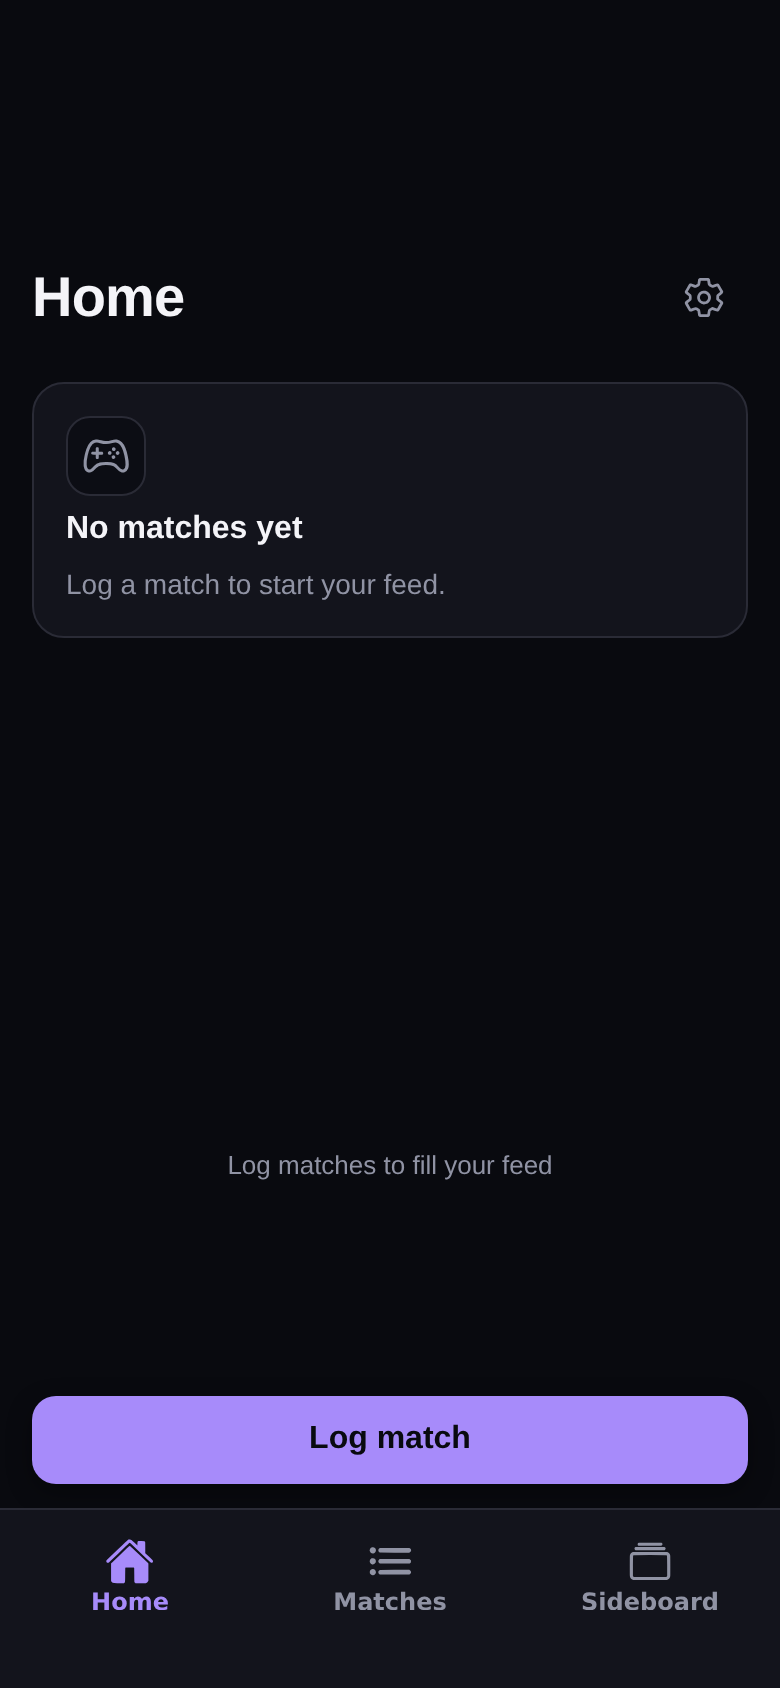
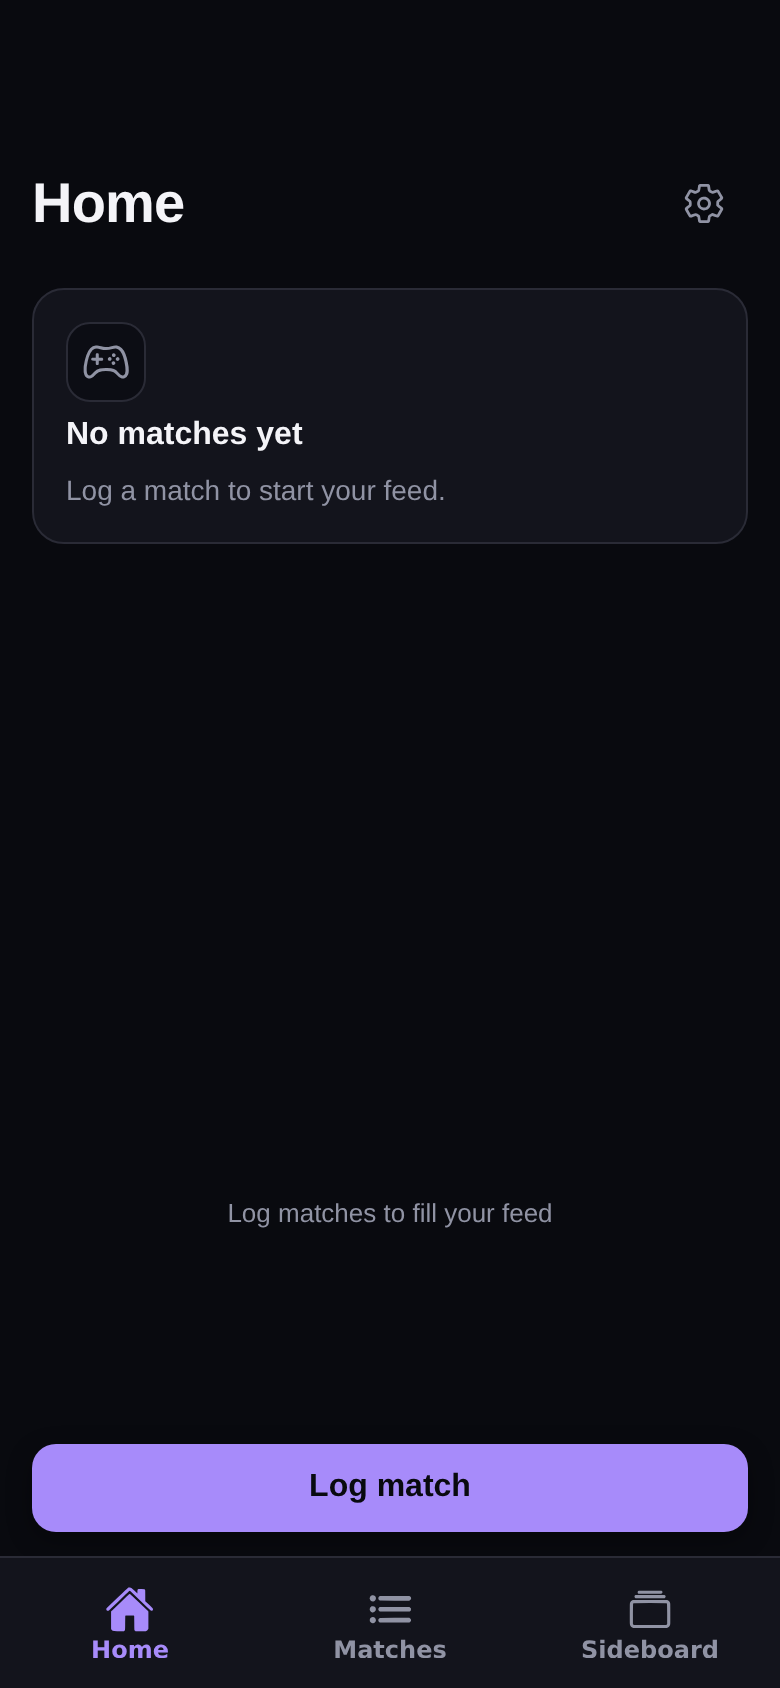
Fix Safari tab bar black gap: disable RN bottom inset double-count.
Pass safeAreaInsets={{ bottom: 0 }} so only our charcoal tabBarStyle pad
applies; use modest pad in browser Safari and full inset in standalone PWA.

diff --git a/app/(tabs)/_layout.tsx b/app/(tabs)/_layout.tsx
@@ -1,5 +1,5 @@
-import React from 'react';
-import { StyleSheet } from 'react-native';
+import React, { useEffect, useState } from 'react';
+import { Platform, StyleSheet } from 'react-native';
 import { Tabs } from 'expo-router';
 import { Ionicons } from '@expo/vector-icons';
 import { useSafeAreaInsets } from 'react-native-safe-area-context';
@@ -8,13 +8,63 @@ import { colors } from '../../src/theme/colors';
 /** Icon + label content row (excludes home-indicator inset). */
 const TAB_BAR_CONTENT_HEIGHT = 56;
 
+/** Modest pad in browser Safari (viewport already sits above chrome). */
+const BROWSER_BOTTOM_PAD = 10;
+
+/**
+ * Standalone PWA / native: fill home-indicator with the tab bar.
+ * In-browser Safari: do NOT layer the full home-indicator inset on top of
+ * the browser toolbar gap (that paints a thick body-colored strip).
+ *
+ * Defaults to false for SSR / first paint (safe for Safari-in-browser).
+ * Client effect upgrades to true in installed PWA / native.
+ */
+function readStandaloneLike(): boolean {
+  if (Platform.OS !== 'web') {
+    return true;
+  }
+  if (typeof window === 'undefined') {
+    return false;
+  }
+  const nav = window.navigator as Navigator & { standalone?: boolean };
+  if (nav.standalone === true) {
+    return true;
+  }
+  try {
+    return (
+      window.matchMedia('(display-mode: standalone)').matches ||
+      window.matchMedia('(display-mode: fullscreen)').matches ||
+      window.matchMedia('(display-mode: minimal-ui)').matches
+    );
+  } catch {
+    return false;
+  }
+}
+
 export default function TabsLayout() {
   const insets = useSafeAreaInsets();
-  // Always keep a little pad on devices with no inset (desktop web).
-  const bottomPad = Math.max(insets.bottom, 8);
+  // Native: always standalone-like. Web SSR/first paint: browser-safe false,
+  // then effect re-reads display-mode after mount (avoids useMemo SSR freeze).
+  const [standaloneLike, setStandaloneLike] = useState(
+    () => Platform.OS !== 'web'
+  );
+  useEffect(() => {
+    setStandaloneLike(readStandaloneLike());
+  }, []);
+
+  const insetBottom = insets.bottom;
+  let bottomPad: number;
+  if (standaloneLike) {
+    bottomPad = insetBottom > 8 ? insetBottom : 8;
+  } else {
+    bottomPad = BROWSER_BOTTOM_PAD;
+  }
 
   return (
     <Tabs
+      // Disable RN Bottom Tabs' default bottom safe-area — we apply ONE pad
+      // via tabBarStyle so the charcoal surface fills it (never body #090A0F).
+      safeAreaInsets={{ bottom: 0 }}
       screenOptions={{
         headerStyle: { backgroundColor: colors.background },
         headerTintColor: colors.text,
@@ -23,10 +73,11 @@ export default function TabsLayout() {
         // Default: no header actions on any tab (prevents Home settings leaking)
         headerRight: () => null,
         tabBarStyle: {
-          // Solid surface so home-indicator inset is filled (not black gap)
+          // Solid surface so intentional bottom pad is charcoal, never black body
           backgroundColor: colors.surface,
           borderTopColor: colors.hairline,
           borderTopWidth: StyleSheet.hairlineWidth,
+          // Single source of height: content row + our pad only (RN inset is 0)
           height: TAB_BAR_CONTENT_HEIGHT + bottomPad,
           paddingBottom: bottomPad,
           paddingTop: 6,

diff --git a/app/+html.tsx b/app/+html.tsx
@@ -34,14 +34,18 @@ export default function Root({ children }: PropsWithChildren) {
 
 /** Rift Night background; viewport-fit=cover enables env(safe-area-inset-*). */
 const rootCss = `
-html, body, #root {
+html, body {
   height: 100%;
   background-color: #090A0F;
+}
+/* App shell: residual strip under the tab bar matches charcoal surface */
+#root {
+  height: 100%;
+  background-color: #13141C;
 }
 body {
   margin: 0;
   overflow: hidden;
-  /* Ensure PWA paints into home-indicator region with dark base */
   padding: 0;
   min-height: 100dvh;
   min-height: -webkit-fill-available;
